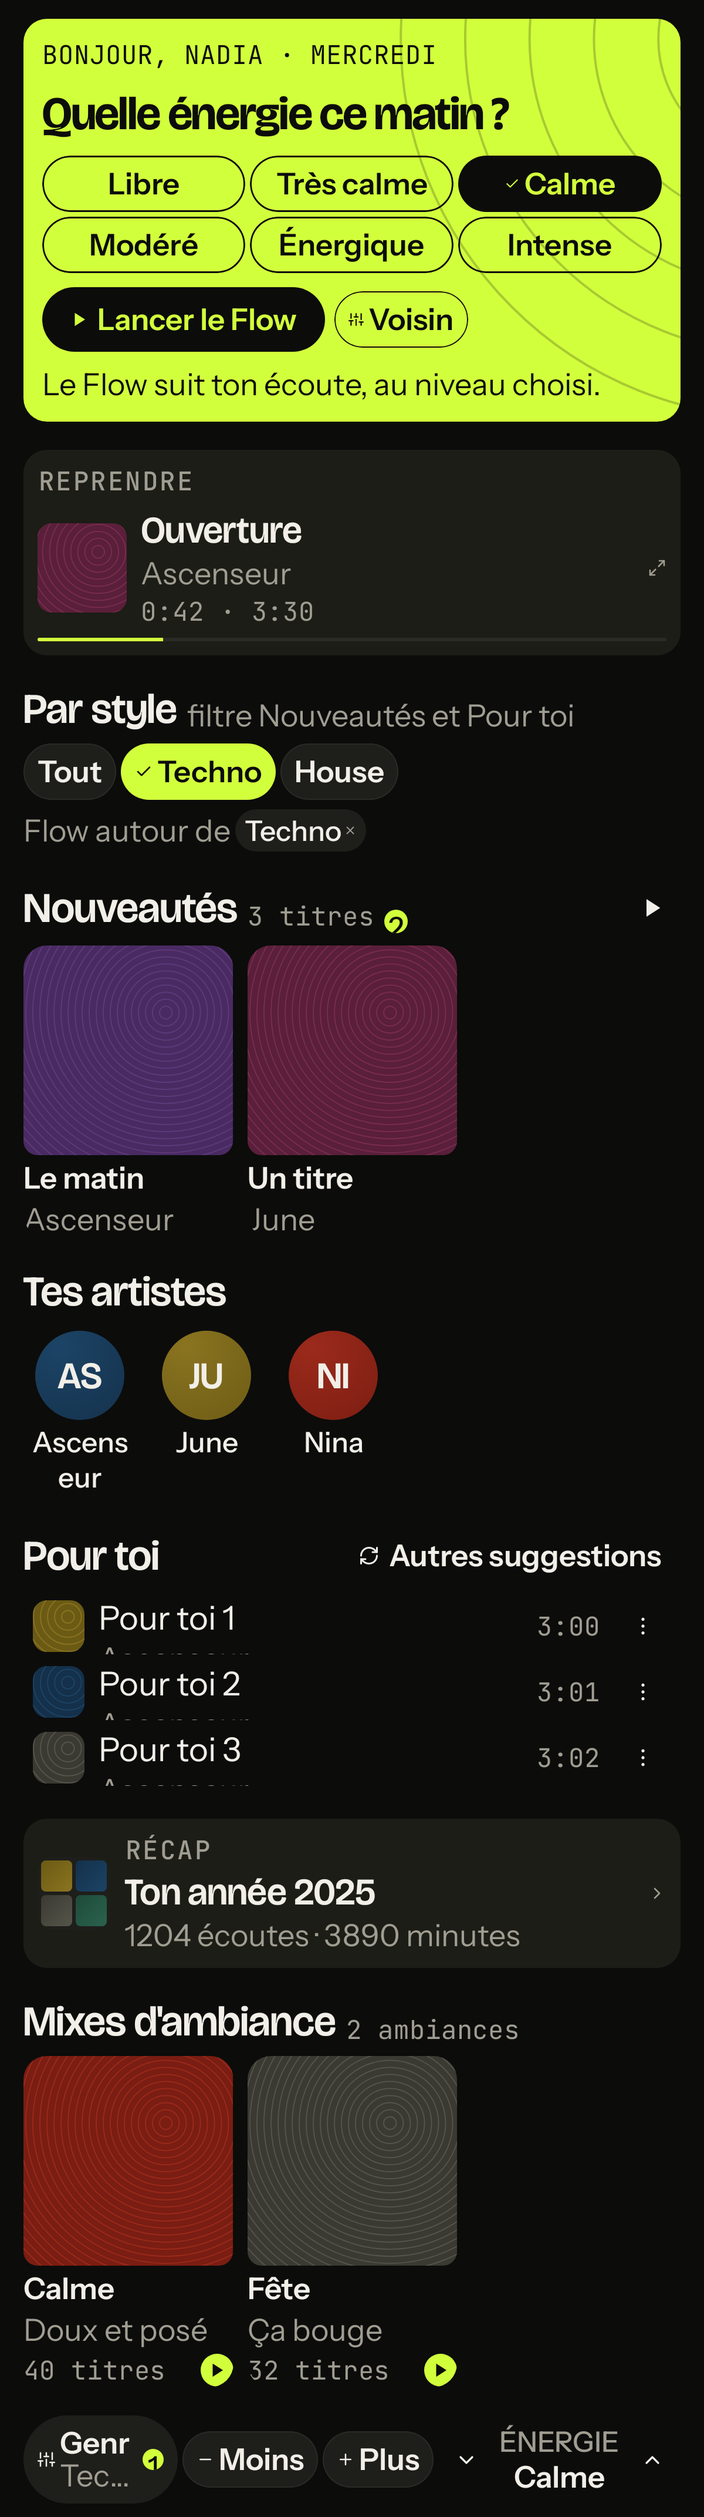
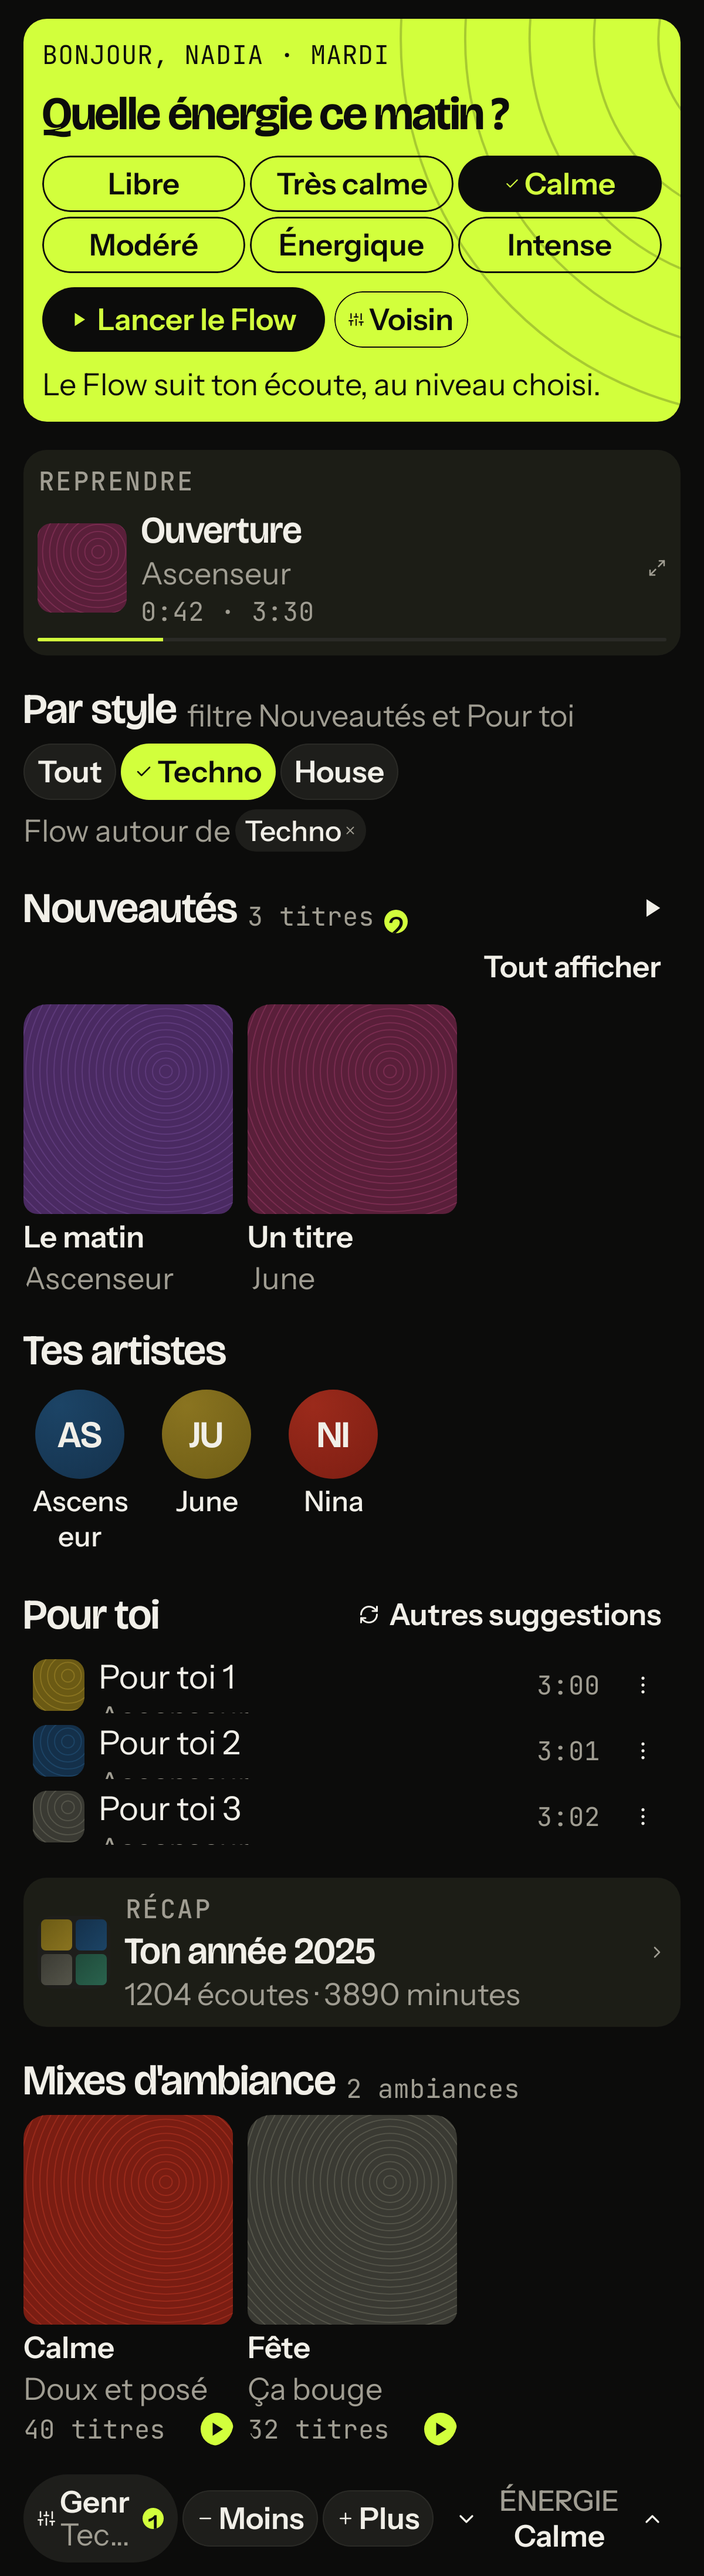
feat(mobile): « Tout afficher » ouvre Nouveautés (M8) (#395)
* feat(mobile): « Tout afficher » ouvre Nouveautés (M8)

L'en-tête de la carte Nouveautés de l'accueil porte les deux actions du SPA
(routes/Home.svelte:252) : « Tout lire » et, dessous, le lien « Tout afficher »
qui passe par AppLink.Releases — la même route que l'écran Nouveautés utilise
pour son propre en-tête, donc aucune navigation inventée dans l'écran.

+0 requête, +0 octet : la porte ne fait que naviguer, aucun appel FFI ajouté.
HomeReleasesDoorTest (Robolectric, 360 dp) clique le noeud cliquable « Tout
afficher » du VRAI HomeScreen sur HomeFixtures et compte un appel.

La capture Encre/360 dp demandée par le lot reste à faire : l'image du worker
n'a ni JDK, ni SDK Android, ni émulateur.

* fix(mobile): onNode est une méthode de la règle, pas une fonction importable

Le compilateur JVM de mobile.yaml: « Unresolved reference 'onNode' ».
rule.onNode(...) est l'appel ; l'import top-level n'existe pas.

* fix(mobile): « Tout afficher » mesure la carte, pas le titre (M8)

Les deux actions empilées dans une colonne de l'en-tête donnaient à cette
colonne la largeur du LIBELLÉ : au rendu 200 % de MB5, « Nouveautés » s'est
coupé en « Nouveau-/tés » et « 3 titres » est passé à un caractère par ligne.
Le lien passe donc sur sa propre rangée, à la même place et au même bord
droit qu'avant ; le titre garde la largeur qu'il avait avant la porte.

Les images de l'accueil de MB5 sont refaites par ce lot : elles montrent la
[…]

diff --git a/mobile/android/feature/home/src/main/java/fr/neezer/mobile/feature/home/HomeScreen.kt b/mobile/android/feature/home/src/main/java/fr/neezer/mobile/feature/home/HomeScreen.kt
@@ -93,6 +93,8 @@ data class HomeActions(
     /** A sleeve of « Nouveautés », by the index of its first title. */
     val playRelease: (Int) -> Unit = {},
     val playAllNew: () -> Unit = {},
+    /** « Tout afficher » de la carte Nouveautés (`routes/Home.svelte:252` → `#/releases`). */
+    val openReleases: () -> Unit = {},
     /** An artist portrait. */
     val openArtist: (String) -> Unit = {},
     /** A « Pour toi » row: play it, or queue it next (the swipe's gesture). */
@@ -564,39 +566,56 @@ private fun StylePicker(state: HomeModel.State, actions: HomeActions) {
 private fun ReleasesShelf(releases: uniffi.nz_ffi.ReleasesCardData, actions: HomeActions) {
     val colors = Sillon.colors
     Column(verticalArrangement = Arrangement.spacedBy(NzSpacing.s)) {
-        Row(Modifier.fillMaxWidth(), verticalAlignment = Alignment.CenterVertically) {
-            Row(
-                Modifier.weight(1f),
-                verticalAlignment = Alignment.Bottom,
-                horizontalArrangement = Arrangement.spacedBy(NzSpacing.s),
-            ) {
-                Text("Nouveautés", style = Sillon.type.title, color = colors.tx)
-                Text(
-                    if (releases.count > 1u) "${releases.count} titres" else "${releases.count} titre",
-                    style = Sillon.type.mono,
-                    color = colors.dim,
-                )
-                if (releases.unseen > 0u) {
-                    Box(
-                        Modifier
-                            .size(20.dp)
-                            .clip(CircleShape)
-                            .background(colors.ac),
-                        contentAlignment = Alignment.Center,
-                    ) {
-                        Text(
-                            releases.unseen.toString(),
-                            style = Sillon.type.labelSmall,
-                            color = colors.onac,
-                        )
+        // The header, then « Tout afficher » on its OWN row rather than stacked
+        // under the play button in one column (`routes/Home.svelte:252` puts the
+        // link below the action): a column of the two measures as wide as the
+        // LABEL, and at 200 % that squeezed the title « Nouveautés » down to
+        // « Nouveau-/tés » with « 3 titres » one character per line (measured on
+        // the 200 % render of MB5). Both sit at the same right edge either way;
+        // only the title's width changes, and this keeps the width it had before
+        // the door existed.
+        Column(verticalArrangement = Arrangement.spacedBy(NzSpacing.xxs)) {
+            Row(Modifier.fillMaxWidth(), verticalAlignment = Alignment.CenterVertically) {
+                Row(
+                    Modifier.weight(1f),
+                    verticalAlignment = Alignment.Bottom,
+                    horizontalArrangement = Arrangement.spacedBy(NzSpacing.s),
+                ) {
+                    Text("Nouveautés", style = Sillon.type.title, color = colors.tx)
+                    Text(
+                        if (releases.count > 1u) "${releases.count} titres" else "${releases.count} titre",
+                        style = Sillon.type.mono,
+                        color = colors.dim,
+                    )
+                    if (releases.unseen > 0u) {
+                        Box(
+                            Modifier
+                                .size(20.dp)
+                                .clip(CircleShape)
+                                .background(colors.ac),
+                            contentAlignment = Alignment.Center,
+                        ) {
+                            Text(
+                                releases.unseen.toString(),
+                                style = Sillon.type.labelSmall,
+                                color = colors.onac,
+                            )
+                        }
                     }
                 }
+                NzIconButton(
+                    glyph = NzGlyph.Play,
+                    contentDescription = "Tout lire",
+                    onClick = { actions.playAllNew() },
+                )
             }
-            NzIconButton(
-                glyph = NzGlyph.Play,
-                contentDescription = "Tout lire",
-                onClick = { actions.playAllNew() },
-            )
+            Row(Modifier.fillMaxWidth(), horizontalArrangement = Arrangement.End) {
+                NzButton(
+                    text = "Tout afficher",
+                    onClick = { actions.openReleases() },
+                    kind = NzButtonKind.Ghost,
+                )
+            }
         }
         BoxWithConstraints {
             val columns = when {

diff --git a/mobile/android/feature/home/src/test/java/fr/neezer/mobile/feature/home/HomeReleasesDoorTest.kt b/mobile/android/feature/home/src/test/java/fr/neezer/mobile/feature/home/HomeReleasesDoorTest.kt
@@ -1,0 +1,63 @@
+package fr.neezer.mobile.feature.home
+
+import androidx.activity.ComponentActivity
+import androidx.compose.foundation.layout.Column
+import androidx.compose.foundation.layout.fillMaxSize
+import androidx.compose.foundation.rememberScrollState
+import androidx.compose.foundation.verticalScroll
+import androidx.compose.ui.Modifier
+import androidx.compose.ui.test.hasClickAction
+import androidx.compose.ui.test.hasText
+import androidx.compose.ui.test.junit4.v2.createAndroidComposeRule
+import androidx.compose.ui.test.performClick
+import androidx.compose.ui.test.performScrollTo
+import fr.neezer.mobile.bridge.ScreenState
+import fr.neezer.mobile.designsystem.NzTheme
+import org.junit.Assert.assertEquals
+import org.junit.Rule
+import org.junit.Test
+import org.junit.runner.RunWith
+import org.robolectric.RobolectricTestRunner
+import org.robolectric.annotation.Config
+
+/**
+ * « Tout afficher » de la carte Nouveautés — the SPA's door on the home's shelf
+ * header (`webapp/src/routes/Home.svelte:252`, `#/releases`).
+ *
+ * The screen is the REAL [HomeScreen] over [HomeFixtures], the same records the
+ * MB5 screenshots draw, so the assertion is on what a person taps: a clickable
+ * node whose text is « Tout afficher », and the one callback it calls.
+ */
+@RunWith(RobolectricTestRunner::class)
+@Config(sdk = [34], qualifiers = "w360dp-h800dp-xhdpi")
+class HomeReleasesDoorTest {
+
+    @get:Rule
+    val rule = createAndroidComposeRule<ComponentActivity>()
+
+    @Test
+    fun theShelfHeaderOpensReleases() {
+        var opened = 0
+        rule.setContent {
+            NzTheme {
+                Column(Modifier.fillMaxSize().verticalScroll(rememberScrollState())) {
+                    HomeScreen(
+                        state = HomeModel.State(
+                            screen = ScreenState.Ready(HomeFixtures.home()),
+                            styles = HomeFixtures.styles(),
+                            chosen = listOf("Techno"),
+                            flow = HomeFixtures.flow(),
+                        ),
+                        actions = HomeActions(openReleases = { opened++ }),
+                    )
+                }
+            }
+        }
+
+        rule.onNode(hasText("Tout afficher") and hasClickAction())
+            .performScrollTo()
+            .performClick()
+
+        assertEquals("« Tout afficher » ouvre la page Nouveautés", 1, opened)
+    }
+}

diff --git a/mobile/android/feature/home/src/main/java/fr/neezer/mobile/feature/home/HomeEntry.kt b/mobile/android/feature/home/src/main/java/fr/neezer/mobile/feature/home/HomeEntry.kt
@@ -89,6 +89,7 @@ fun HomeEntry(nav: NzNavigator, modifier: Modifier = Modifier) {
                 clearStyles = model::clearStyles,
                 playRelease = model::playRelease,
                 playAllNew = model::playAllNew,
+                openReleases = { nav.go(AppLink.Releases) },
                 openArtist = { id -> nav.go(AppLink.Artist(id)) },
                 playReco = model::playReco,
                 queueReco = model::queueNext,

diff --git a/docs/agents/mobile.md b/docs/agents/mobile.md
@@ -2440,8 +2440,8 @@ request):
   (`recent.tracks` in `localStorage`) that no core store carries yet; it needs
   MB3b's listen accounting to publish the last played rows.
 - **« Tout afficher »** (the door to Nouveautés) — `NzNavigator` speaks
-  `AppLink`s and there is no `AppLink` for the releases shelf; MB14 adds one when
-  it fills that screen (this lot may not edit `links.rs`).
+  `AppLink`s and there was no `AppLink` for the releases shelf when MB5 landed;
+  **M8 delivers it** over `AppLink.Releases` (see its section below).
 - **The discovery SLIDER** — `DiscoverySlider.svelte` is MB14's; the hero's
   tuning chip opens the four `discovery.js` stops as chips, which is the same
   value set the slider snaps to.
@@ -6463,3 +6463,31 @@ et ne doivent pas bouger). `onboarding` porte donc `#[uniffi(default = None)]` :
 exactement « le serveur ne l'a pas dit », et les constructions existantes compilent. (2) Un smart
 cast sur `event.me` est refusé (propriété `val` d'un AUTRE module Gradle) : la branche écrit
 `when (val me = event.me)`, sinon `mobile.yaml` échoue à la compilation Kotlin.
+### M8 — Nouveautés : « Tout afficher » (delivered 2026-11-24)
+
+**La règle.** L'en-tête de la carte « Nouveautés » de l'accueil porte les DEUX actions du SPA
+(`webapp/src/routes/Home.svelte:252`) : le bouton de lecture (« Tout lire », le même
+`NzIconButton(Play)` qu'avant) et, dessous, le lien fantôme « Tout afficher ». Le tap passe par
+`AppLink.Releases` — l'`AppLink` que l'écran Nouveautés utilise déjà pour son propre en-tête
+(`DiscoveryEntries.kt`), donc une seule route pour la porte et la page, jamais un `NavController`
+dans l'écran.
+
+**Pourquoi « Tout afficher » sur sa propre rangée, et pas empilé sous le bouton de lecture.** Le
+plan empilait les deux dans une `Column` de l'en-tête ; cette colonne mesure alors la largeur du
+LIBELLÉ, et à 200 % elle a pris sur le titre : « Nouveautés » s'est coupé en « Nouveau-/tés » et
+« 3 titres » est passé à un caractère par ligne (mesuré sur le rendu 200 % de MB5, refait par ce
+lot). Sur sa propre rangée, le lien est au MÊME bord droit, et le titre garde la largeur qu'il avait
+avant que la porte existe — le rendu 200 % redevient celui de MB5. Un `spacedBy(NzSpacing.xxs)`
+garde les deux actions serrées à 360 comme à 600 dp.
+
+**+0 requête, +0 octet.** La porte ne fait que naviguer : `openReleases = { nav.go(AppLink.Releases) }`
+n'ajoute aucun appel FFI et ne lit rien. `grep -n "openReleases" mobile/android/feature/home/src/main`
+→ 3 lignes (le champ de `HomeActions`, l'`NzButton` et le câblage), zéro appel au noyau. La page
+Nouveautés lit sa propre route (MB14 : `GET /releases` 116 835 B à froid, 0 à chaud).
+
+**Mesuré, pas supposé.** `:feature:home:testDebugUnitTest` : **27 tests, 0 échec** sur la JVM (JDK
+17, Gradle 8.14.7, Robolectric en graphismes NATIFS, en 1 min) — dont `HomeReleasesDoorTest`
+(`w360dp-h800dp-xhdpi`, `hasText("Tout afficher") and hasClickAction()` → `openReleases` appelé
+**une** fois). Les images de l'accueil de MB5 sont refaites par ce lot (le rendu de la vraie page,
+pas une maquette) : `docs/agents/screenshots/mobile/MB5/mb5-encre-360dp.png` porte le lien, et le
+200 % (`mb5-encre-360dp-font200.png`) est inchangé pour le titre.
